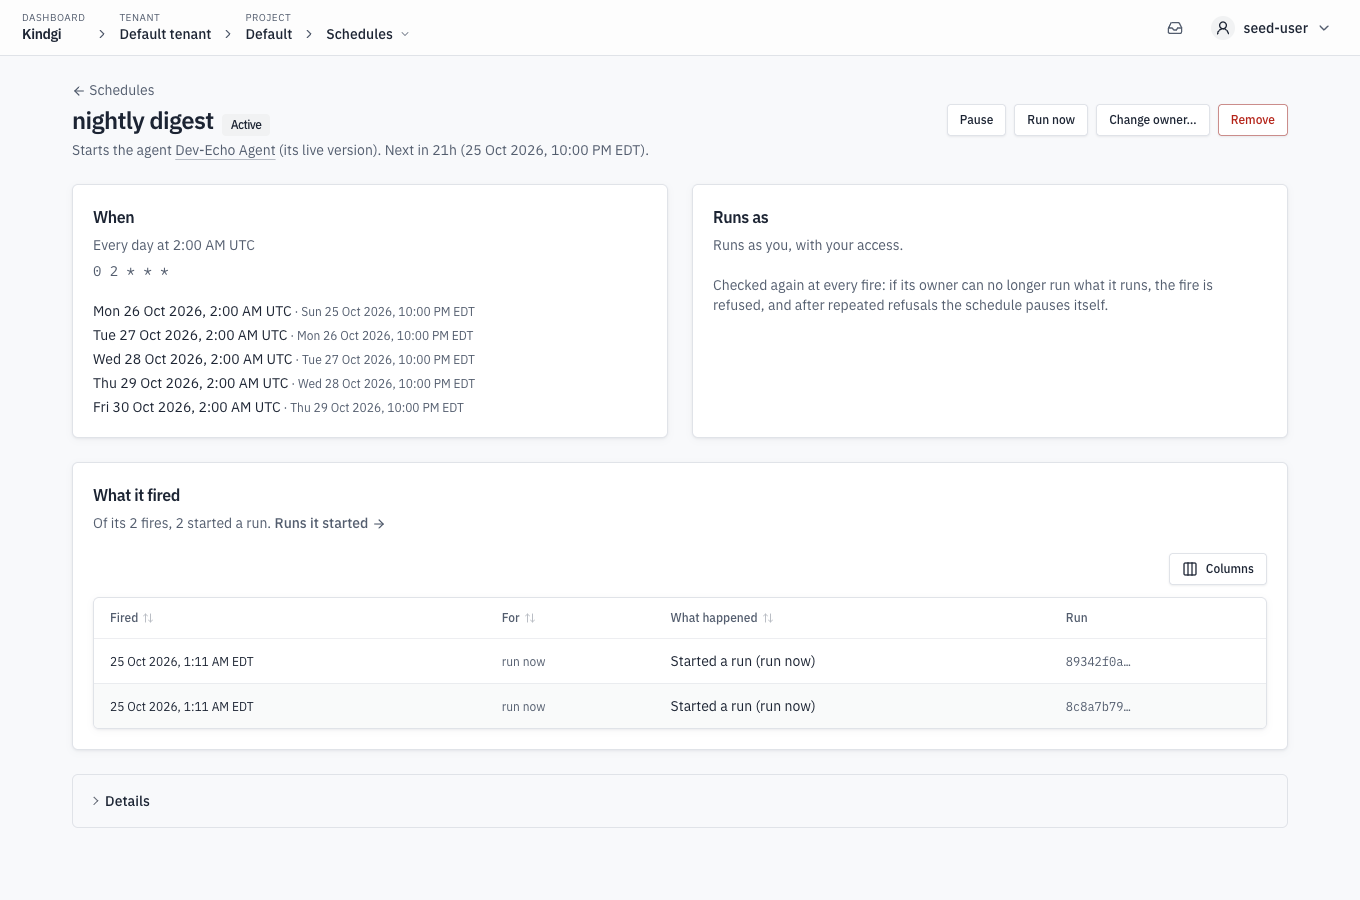
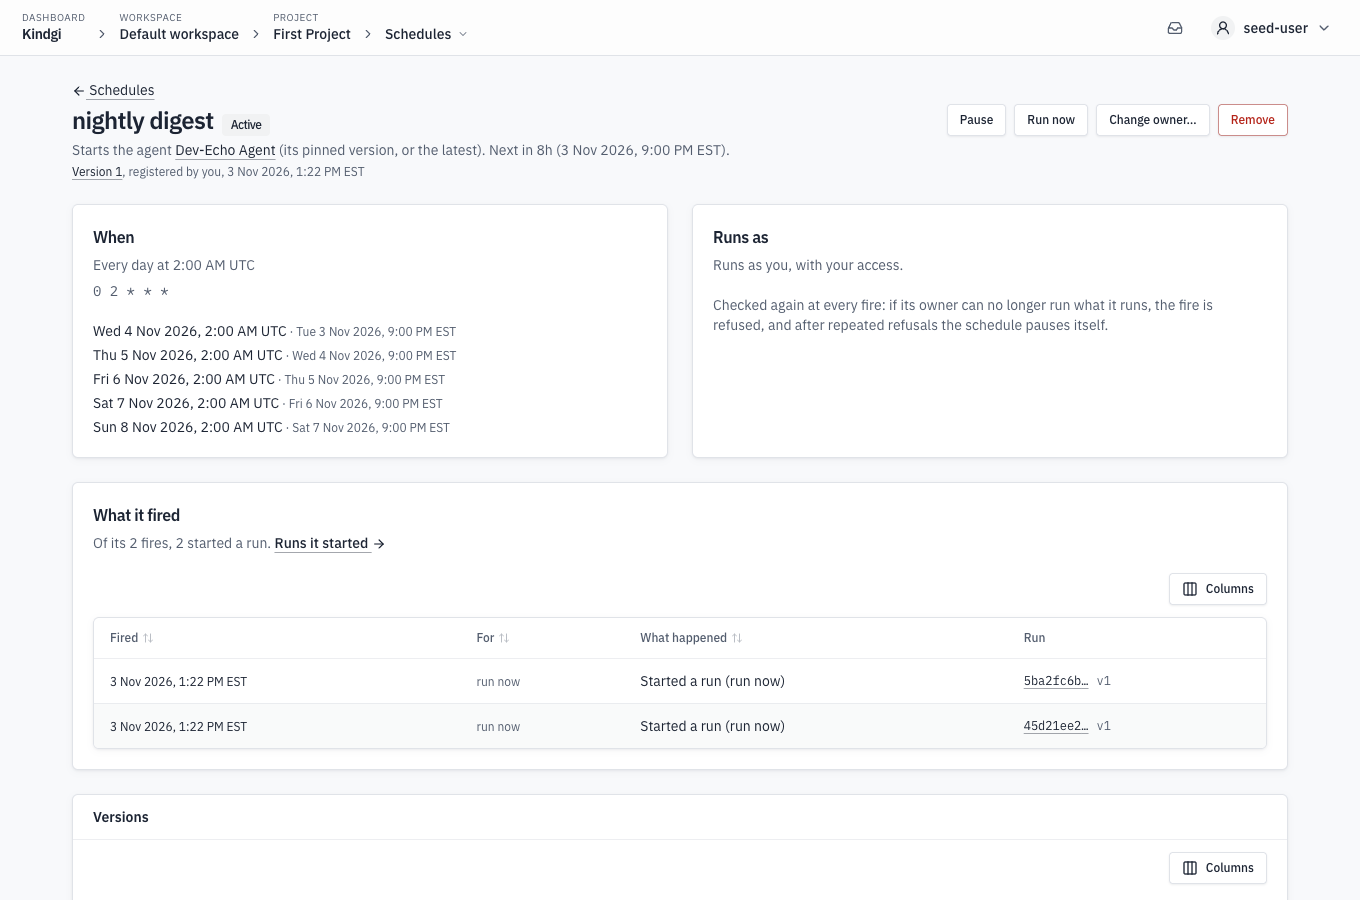
docs: six screenshots of runs and schedules retaken on 0.5.0, and what Outlook reads (#1914)
Six screenshots of the runs and schedules pages, taken again on 0.5.0,
with each alt text matched to its shot, and one line on the calendar
connection's page.

- **Runs:** `run-cancelled-steps.png` on "Cancel a run" and
`runs-agent-turns.png` on "List runs". The cancelled run's cost covers 2
model calls, and the Runs page's alt names its filters and the flow run
`Refunds 1.0.0` as the page shows it.
- **Schedules:** `schedules-list.png`, `schedule-fires.png`,
`schedule-page.png` and `run-started-by-schedule.png` on "Run on a
schedule". The list's alt names the paused weekly report first, as the
page lists it, and the next fire is the shots' own: in 8h, at 9:00 PM
EST. The page also says what two of them show that no text described:
the line under a schedule's title naming its newest version, the version
each fire's run ran, and the **Versions** table (runtime 0.3.0 or
later). "Its versions" points to it.
- **`guides/connections/calendar.md`, "What a list can read":** Outlook
reads with `Calendars.ReadBasic`, the permission the same page lists for
Microsoft, and Microsoft's pages name a wider permission for a calendar
someone else shares with the account. It replaces a line that said
Outlook reads each calendar with the same permission as the main one.

Checked here:
- Each alt text against its shot.
- The **Versions** words against the console's own: its column names,
how it names who made a version, and "Its first version".
[…]

diff --git a/site/src/content/docs/guides/connections/calendar.md b/site/src/content/docs/guides/connections/calendar.md
@@ -81,9 +81,10 @@ with its window:
 - **A free/busy** joins their busy times.
 - **What a list can read:** Google reads only a calendar the account owns,
   one whose entry shows `access: "owner"` and no `owner`, since its event
-  permission reaches no other. Outlook reads each with the same permission
-  as the main one. When Google or Microsoft refuses a calendar, the call
-  fails and names it.
+  permission reaches no other. Outlook reads with `Calendars.ReadBasic`, and
+  Microsoft's pages name a wider permission for a calendar someone else
+  shares with the account. When Google or Microsoft refuses a calendar, the
+  call fails and names it.
 - **Outlook's free/busy** reads at most 1000 events across the calendars.
   Past that, it fails: ask for a shorter window or fewer calendars.
 
